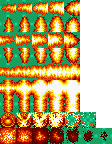
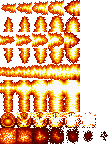
Add bombs with explosion

diff --git a/js/explosionPrefab.js b/js/explosionPrefab.js
@@ -1,0 +1,45 @@
+var SuperBomberman = SuperBomberman || {};
+
+SuperBomberman.explosionPrefab = function(_game, _x, _y, _idExplosion){
+    this.framerateAnimations = 10;
+    Phaser.Sprite.call(this, _game, _x, _y, 'explosions')
+    
+    this.animations.add('left_bound', [0,1,2,3,4,3,2,1,0], this.framerateAnimations, false)
+    this.animations.add('top_bound', [7,8,9,10,11,10,9,8,7], this.framerateAnimations, false)
+    this.animations.add('right_bound', [14,15,16,17,18,17,16,15,14], this.framerateAnimations, false)
+    this.animations.add('bottom_bound', [21,22,23,24,25,24,23,22,21], this.framerateAnimations, false)
+    this.animations.add('horizontal_explosion', [28,29,30,31,32,31,30,29,28], this.framerateAnimations, false)
+    this.animations.add('central_explosion', [35,36,37,38,39,38,37,36,35], this.framerateAnimations, false)
+    this.animations.add('vertical_explosion', [42,43,44,45,46,45,44,43,42], this.framerateAnimations, false)
+    
+    switch(_idExplosion){
+        case 0:
+            this.animations.play('left_bound', this.framerateAnimations, false, true)
+            break
+        case 1:
+            this.animations.play('top_bound', this.framerateAnimations, false, true)
+            break
+        case 2:
+            this.animations.play('right_bound', this.framerateAnimations, false, true)
+            break
+        case 3:
+            this.animations.play('bottom_bound', this.framerateAnimations, false, true)
+            break
+        case 4:
+            this.animations.play('horizontal_explosion', this.framerateAnimations, false, true)
+            break
+        case 5:
+            this.animations.play('central_explosion', this.framerateAnimations, false, true)
+            break
+        case 6:
+            this.animations.play('vertical_explosion', this.framerateAnimations, false, true)
+            break
+    }
+    
+    this.scale.setTo(gameOptions.gameScale)
+    this.anchor.setTo(.5)
+    _game.add.existing(this)
+}
+
+SuperBomberman.explosionPrefab.prototype = Object.create(Phaser.Sprite.prototype);
+SuperBomberman.explosionPrefab.prototype.constructor = SuperBomberman.explosionPrefab;

diff --git a/js/level1.js b/js/level1.js
@@ -11,20 +11,33 @@ SuperBomberman.level1 = {
     
     preload:function()
     {
-        console.log("preload")
+        console.log("preload");
+        
+        //---region FOLDERS_SPRITES---//
+        {
+            var levelsFolder = "assets/Levels/";
+            var bombermanFolder = "assets/Bomberman/";
+            var bombsFolder = bombermanFolder + "Bombs/";
+        }
         
         //---region LOAD_TILESET_IMAGES---//
         {
-        this.load.image('buildings', "assets/levels/Pace_town.png");
-        this.load.image('destroyables', "assets/levels/Pace_town_destroyable.png");
-        this.load.tilemap('level1','assets/Tiled/level1.json', null, Phaser.Tilemap.TILED_JSON);
+            this.load.image('buildings', levelsFolder + "Pace_town.png");
+            this.load.image('destroyables', levelsFolder + "Pace_town_destroyable.png");
+            this.load.tilemap('level1','assets/Tiled/level1.json', null, Phaser.Tilemap.TILED_JSON);
+        }
+        
+        //---region LOAD_SPRITES_BOMBS---//
+        {
+            this.load.spritesheet('blue_bomb', bombsFolder + "blue_bomb.png",16,16);
+            this.load.spritesheet('explosions', bombsFolder + "Explosions.png",16,16);
         }
         
     },
     
     create:function()
     {
-        console.log("create")
+        console.log("create");
         
         //---region ADD_IMAGES_TO_TILEMAP---//
         {
@@ -45,10 +58,12 @@ SuperBomberman.level1 = {
         this.floor.scale            = new PIXI.Point(gameOptions.gameScale,gameOptions.gameScale);
         }
         
+        this.bomb = new SuperBomberman.bombPrefab(this.game, 7, 6, 7);
     },
     
     update:function()
     {
-        console.log("update")
+        
+        console.log(Phaser.Timer.MILLISESOND);
     }
 }

diff --git a/js/explosionManager.js b/js/explosionManager.js
@@ -1,0 +1,35 @@
+var SuperBomberman = SuperBomberman || {};
+
+SuperBomberman.explosionManager = function(_game, _x, _y, _power){
+    this.game = _game
+    this.posx = _x
+    this.posy = _y
+    this.power = _power
+    
+    this.instantiateExplosions();
+}
+
+SuperBomberman.explosionManager.prototype = Object.create(Phaser.Sprite.prototype);
+SuperBomberman.explosionManager.prototype.constructor = SuperBomberman.explosionManager;
+
+SuperBomberman.explosionManager.prototype.instantiateExplosions = function(){
+    this.generateExplosion(this.posx, this.posy, 5)
+    for(var i = 0; i < this.power; i++){
+        this.offset = (16 * (i + 1)) * gameOptions.gameScale;
+        if(i+1 != this.power){
+            this.generateExplosion(this.posx + this.offset , this.posy, 4)
+            this.generateExplosion(this.posx - this.offset, this.posy, 4)
+            this.generateExplosion(this.posx, this.posy + this.offset, 6)
+            this.generateExplosion(this.posx, this.posy - this.offset, 6)
+        }else{
+            this.generateExplosion(this.posx - this.offset, this.posy, 0)
+            this.generateExplosion(this.posx, this.posy - this.offset, 1)
+            this.generateExplosion(this.posx + this.offset, this.posy, 2)
+            this.generateExplosion(this.posx, this.posy + this.offset, 3)
+        }
+    }
+}
+
+SuperBomberman.explosionManager.prototype.generateExplosion = function(_x, _y, _idExplosion){
+    new SuperBomberman.explosionPrefab(this.game, _x, _y, _idExplosion)
+}

diff --git a/js/bombPrefab.js b/js/bombPrefab.js
@@ -1,0 +1,33 @@
+var SuperBomberman = SuperBomberman || {};
+
+SuperBomberman.bombPrefab = function(_game, _x, _y, _power){
+    this.timeBombToExplode = 3;
+    this.posx = (_x * 16 - 8) * gameOptions.gameScale;
+    this.posy = (_y * 16 - 8) * gameOptions.gameScale;
+    this.power = _power;
+    this.game = _game;
+    
+    Phaser.Sprite.call(this, _game, this.posx, this.posy, 'blue_bomb');
+    
+    this.animations.add('idle', [0,1,2,1], 5, true);
+    this.animations.play('idle');
+    
+    this.scale.setTo(gameOptions.gameScale);
+    this.anchor.setTo(0.5);
+    
+    this.game.add.existing(this);
+    
+    this.game.time.events.add(Phaser.Timer.SECOND * this.timeBombToExplode, this.explodeBomb, this);
+}
+
+SuperBomberman.bombPrefab.prototype = Object.create(Phaser.Sprite.prototype);
+SuperBomberman.bombPrefab.prototype.constructor = SuperBomberman.bombPrefab;
+
+SuperBomberman.bombPrefab.prototype.update = function(){
+        
+}
+
+SuperBomberman.bombPrefab.prototype.explodeBomb = function(){
+    new SuperBomberman.explosionManager(this.game, this.posx, this.posy, this.power)
+    this.kill();
+}

diff --git a/index.html b/index.html
@@ -6,6 +6,9 @@
         
         <script src="js/phaser.min.js"></script>
         <script src="js/level1.js"></script>
+        <script src="js/explosionPrefab.js"></script>
+        <script src="js/explosionManager.js"></script>
+        <script src="js/bombPrefab.js"></script>
         <script src="js/levelProva.js"></script>
         <script src="js/enemyPrefab.js"></script>
         <script src="js/main.js"></script>
